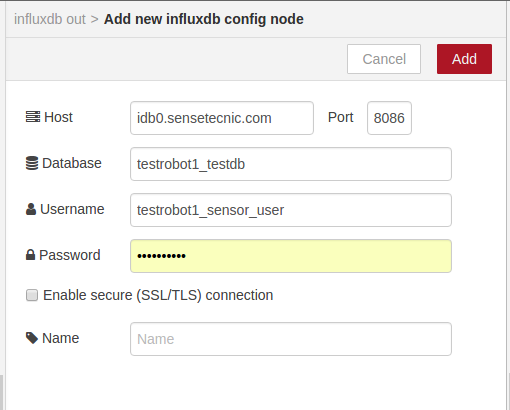
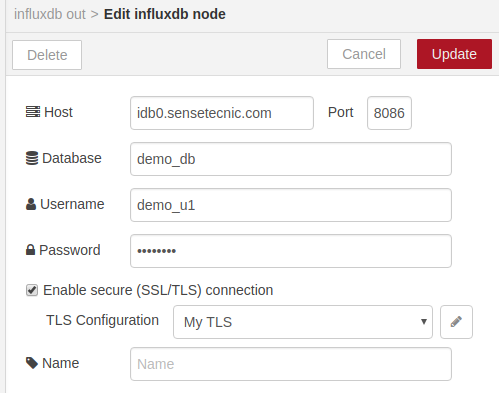
Updating docs on connecting to influxdb with the influxdb using ssl

diff --git a/influxdb/connect-howto.md b/influxdb/connect-howto.md
@@ -20,13 +20,19 @@ We will add new InfluxDb server configuration by clicking the edit button.
 
 ![influxdb_add_new_server.png](/assets/images/influxdb_add_new_server.png)
 
-Next, we enter the STS-InfluxDB URL in the host field and the database username and database user password that we created previously in the username and password field of the InfluxDB node config tab. The default port number is 8086.  Click the update button.
+Next, we enter the STS-InfluxDB URL in the host field and the database username and database user password that we created previously in the username and password field of the InfluxDB node config tab. The default port number is 8086.
+
+The SSL is enabled on STS-InfluxDB. We will have to provide an TLS configuration. Check the checkbox "Eanble secure (SSL/TLS) connection" and create a new TLS configuration like the following. You do not need to provide any client certificate information.
+
+![influxdb_tls_config.png](/assets/images/influxdb_tls_config.png)
+
+Click the update button when you are finished.
 
 Next, enter a measurement name for collecting some sensor data.  Let's call the measurement "test".
 
 ![influxdb_add_measurement.png](/assets/images/influxdb_add_measurement.png)
 
-We can test writing some random sensor data to the measurement "test". Let's drag an inject node and a random node (You will need to install the random node if you don't have it in your node list. Please refer to [Node Package Installation](/fred/node-install/).) Let's set the random node to this:
+We can test writing some random sensor data to the measurement "test". Let's drag an inject node and a random node (You will need to install the random node if you don't have it in your node list. Please refer to [Node Package Installation](/fred/node-install/). Let's set the random node to this:
 
 ![influxdb_random_node_config.png](/assets/images/influxdb_random_node_config.png)
 
@@ -40,11 +46,7 @@ Now, clicking on the inject node should allow you to write a random float number
 
 We will drag an InfluxDB in node to query data from our InfluxDB instance. We first drag an InfluxDB in node to the editor. Double click on the node to edit the configuration tab.
 
-Click to add new server, we will be using the user with read privilege:
-
-![influxdb_add_new_read_user.png](/assets/images/influxdb_add_new_read_user.png)
-
-Then, in the query field, we will enter "select * from test". This will return all the value from the measurement that we had used in the previous example.
+Click to add new server, we will be using the user with read privilege. Then, in the query field, we will enter `select * from test`. This will return all the value from the measurement that we had used in the previous example.
 
 Connect an inject node before the InfluxDB in node, and a debug node after the InfluxDB node:
 
